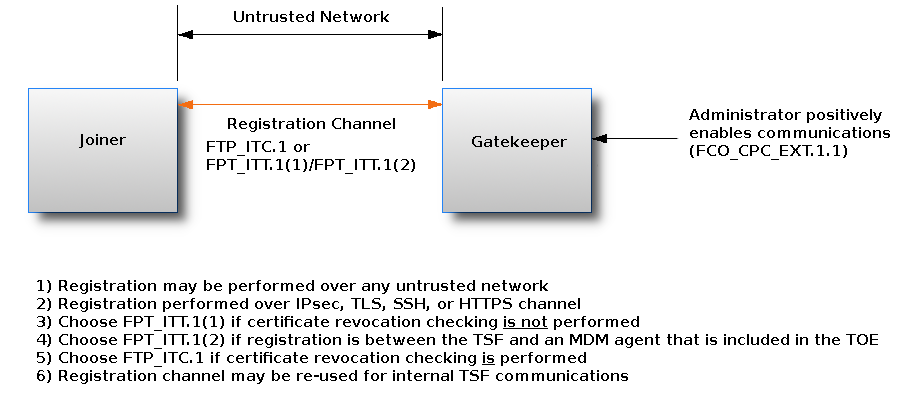
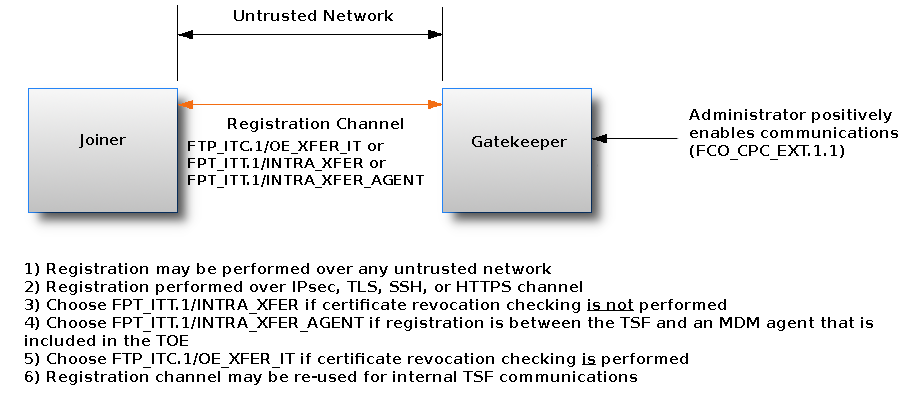
Deploying to gh-pages from @ commoncriteria/mdm@37531baafbdb0056527d5b5e6a7f13de862513c2 🚀

diff --git a/index.html b/index.html
@@ -1,5 +1,5 @@
 <html><head><title>Listing</title></head><body>
-Wed May 13 14:41:24 UTC 2026
+Wed May 13 17:08:01 UTC 2026
 <br/><ol>
 <li><a href='.'>.</a></li>
 <li><a href='./test/meta-info.txt'>./test/meta-info.txt</a></li>
@@ -291,9 +291,9 @@ Wed May 13 14:41:24 UTC 2026
 <li><a href='./subordinateMDM/css/diff.css'>./subordinateMDM/css/diff.css</a></li>
 <li><a href='./subordinateMDM/spell-badge.svg'>./subordinateMDM/spell-badge.svg</a></li>
 <li><a href='./.git'>./.git</a></li>
-<li><a href='./.git/objects/pack/pack-35eb8d9b1c786d3535451235edce489220830b8d.pack'>./.git/objects/pack/pack-35eb8d9b1c786d3535451235edce489220830b8d.pack</a></li>
-<li><a href='./.git/objects/pack/pack-35eb8d9b1c786d3535451235edce489220830b8d.idx'>./.git/objects/pack/pack-35eb8d9b1c786d3535451235edce489220830b8d.idx</a></li>
-<li><a href='./.git/objects/pack/pack-35eb8d9b1c786d3535451235edce489220830b8d.rev'>./.git/objects/pack/pack-35eb8d9b1c786d3535451235edce489220830b8d.rev</a></li>
+<li><a href='./.git/objects/pack/pack-335af7980486d88b3346a4fb722d7701fdea0d1c.rev'>./.git/objects/pack/pack-335af7980486d88b3346a4fb722d7701fdea0d1c.rev</a></li>
+<li><a href='./.git/objects/pack/pack-335af7980486d88b3346a4fb722d7701fdea0d1c.pack'>./.git/objects/pack/pack-335af7980486d88b3346a4fb722d7701fdea0d1c.pack</a></li>
+<li><a href='./.git/objects/pack/pack-335af7980486d88b3346a4fb722d7701fdea0d1c.idx'>./.git/objects/pack/pack-335af7980486d88b3346a4fb722d7701fdea0d1c.idx</a></li>
 <li><a href='./.git/hooks/pre-push.sample'>./.git/hooks/pre-push.sample</a></li>
 <li><a href='./.git/hooks/pre-receive.sample'>./.git/hooks/pre-receive.sample</a></li>
 <li><a href='./.git/hooks/pre-merge-commit.sample'>./.git/hooks/pre-merge-commit.sample</a></li>